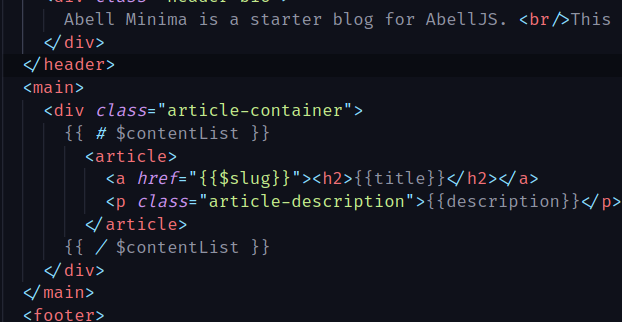
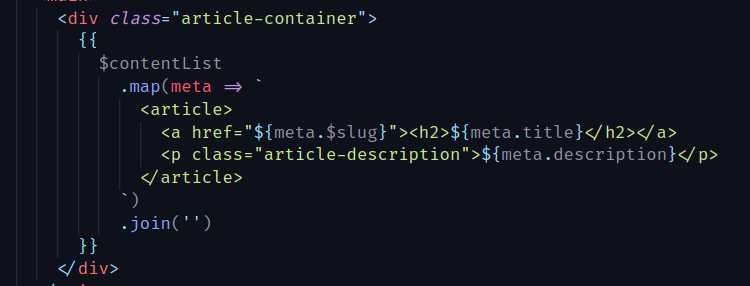
images updated

Changed region(s): [[0.0305, 0.1119, 1.0, 0.6713], [0.0611, 0.0, 0.9775, 0.1119], [0.0305, 0.6713, 0.4277, 1.0]]

diff --git a/README.md b/README.md
@@ -2,9 +2,9 @@
 
 Syntax Highlighting for .abell files to make abell specific commands like import_content and mustache syntax easier to read.
 
-<img alt="Content.abell screenshot with this extension on" src="images/contentabell.png" width="400"/>
-
-<img alt="Index Abell Screenshot with this extension turned on" src="images/indexabell.png" width="400"/>
+<img alt="Content.abell screenshot with this extension on" src="images/contentabell.png" width="500"/>
+<br/><br/>
+<img alt="Index Abell Screenshot with this extension turned on" src="images/indexabell.png" width="500"/>
 
 
 ## Features

diff --git a/CHANGELOG.md b/CHANGELOG.md
@@ -6,6 +6,10 @@ Check [Keep a Changelog](http://keepachangelog.com/) for recommendations on how 
 
 ## Releases
 
+### 0.0.3
+
+Support for JS-in-HTML
+
 ### 0.0.2
 
 Added highlighting for brackets
